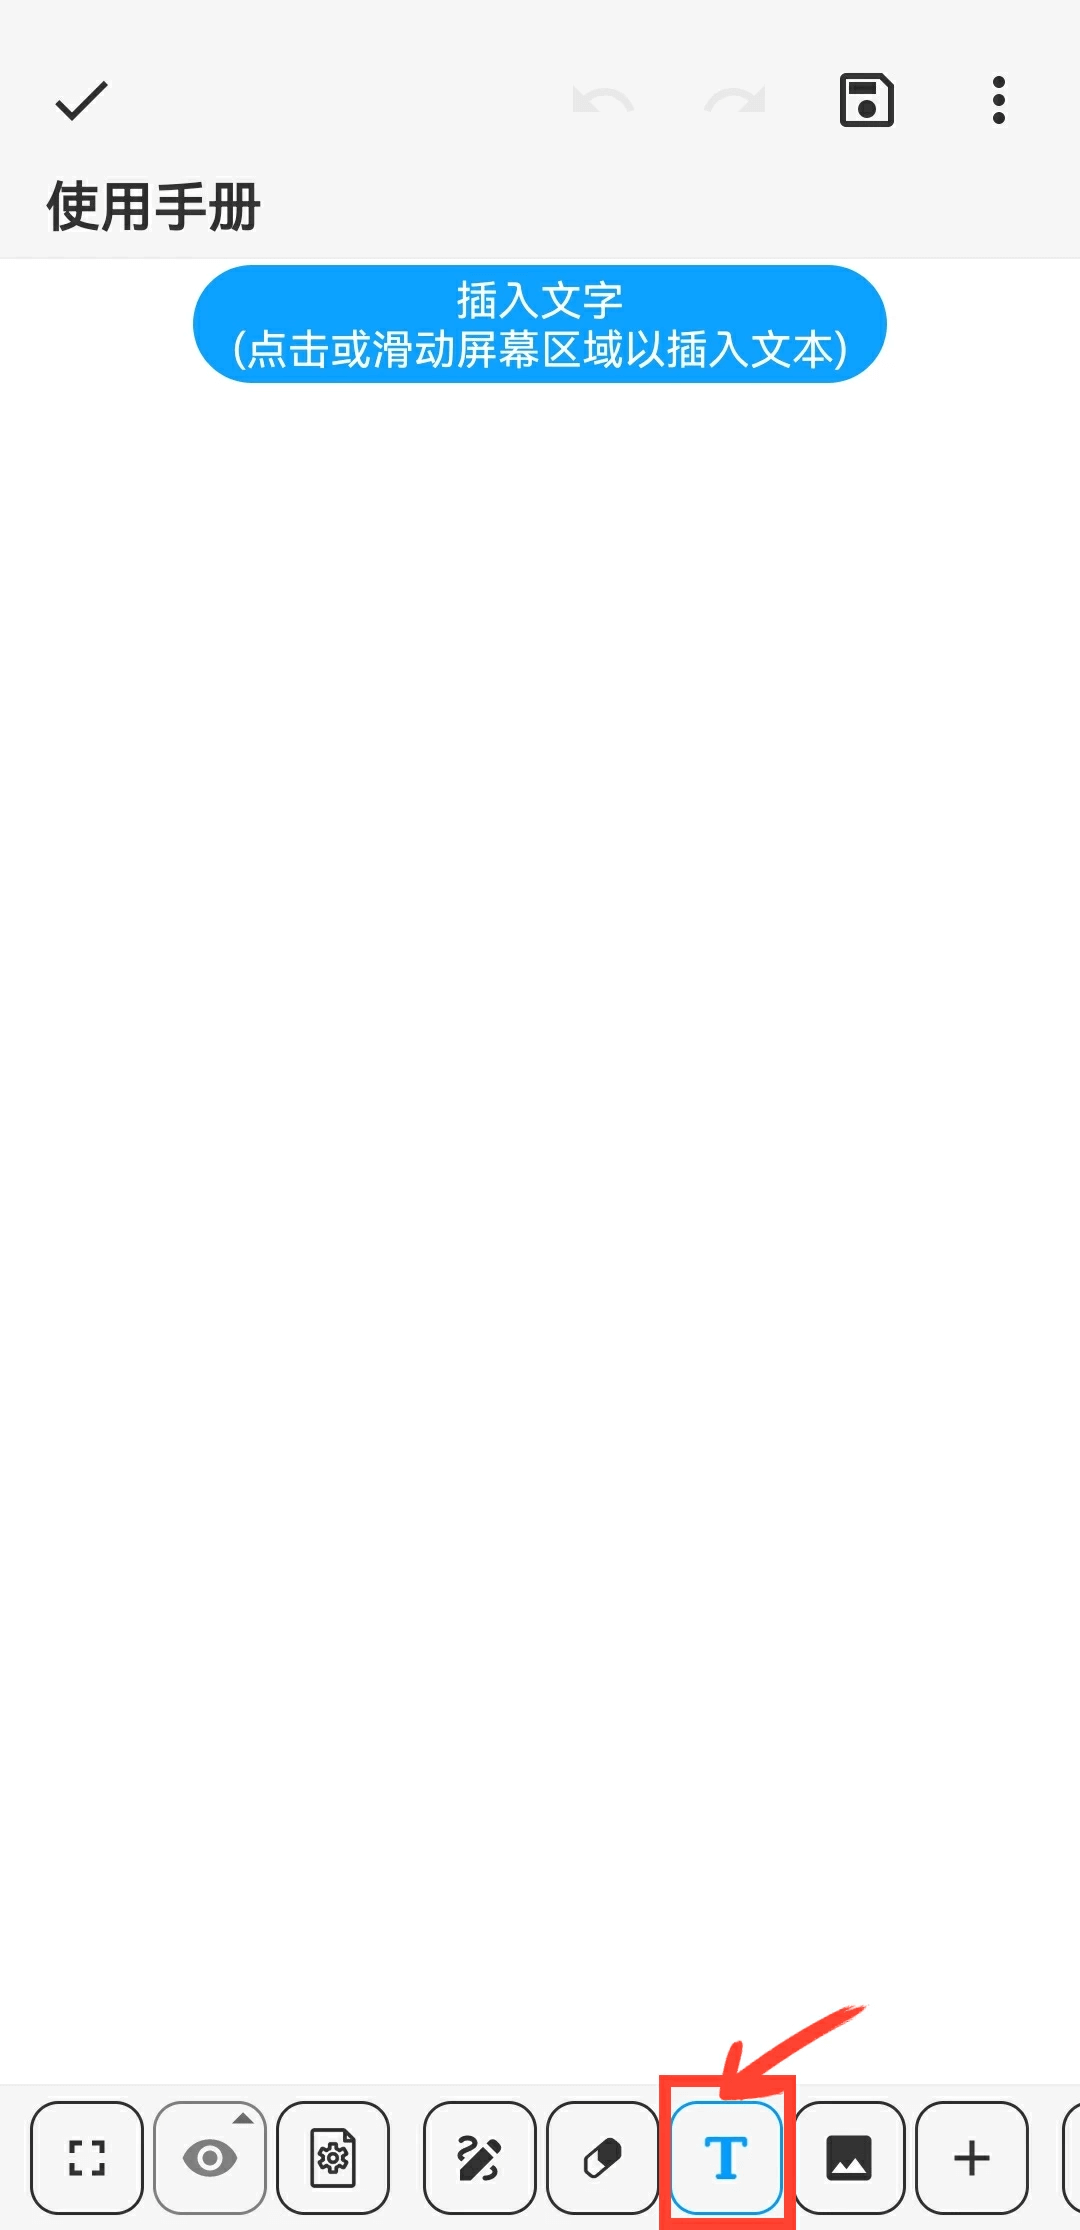
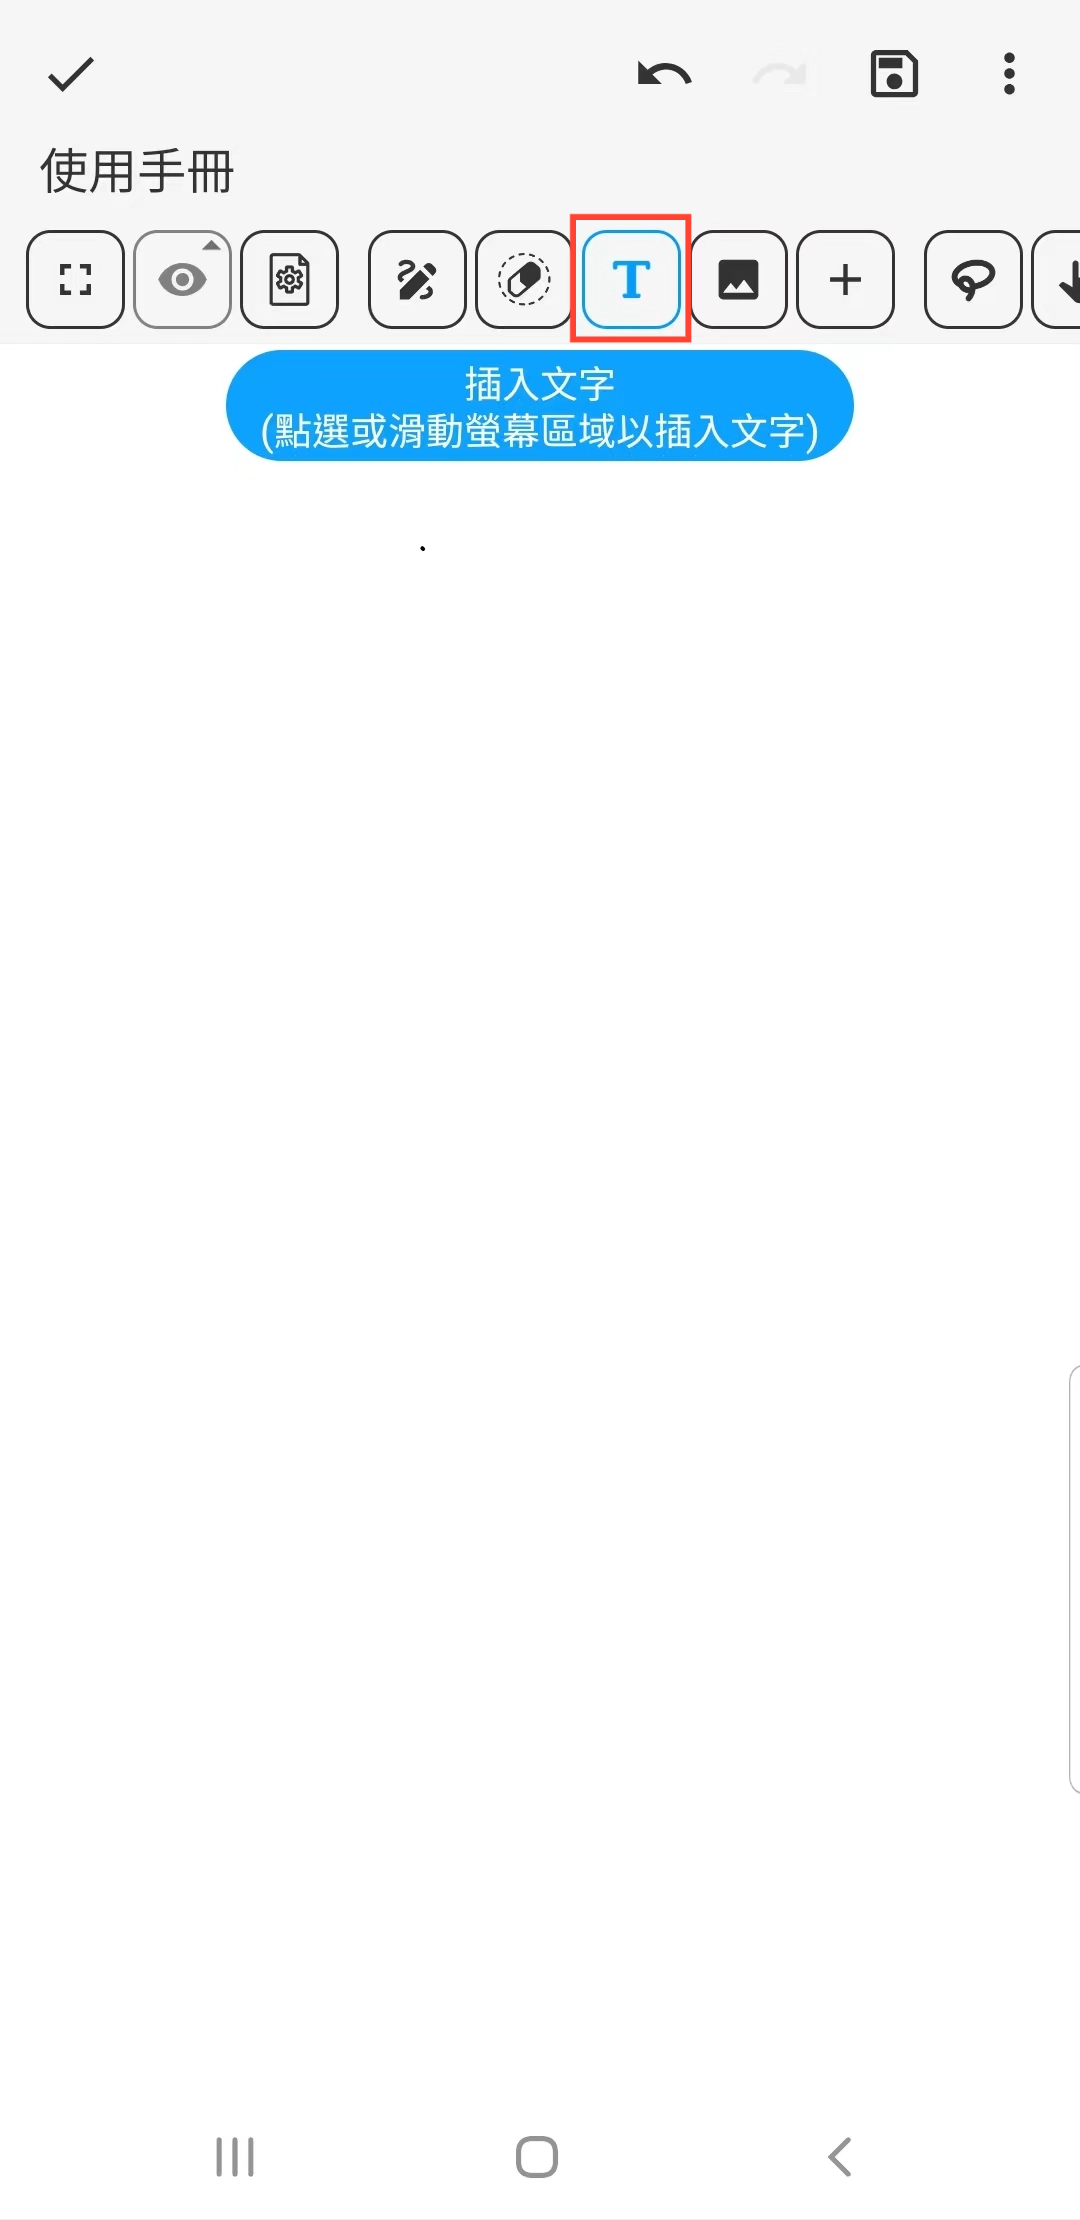
more3

diff --git a/drawnote/manual/zh-tw/super_note/move_pencil_toolbar.md b/drawnote/manual/zh-tw/super_note/move_pencil_toolbar.md
@@ -13,9 +13,9 @@
 
 3.勾選確認。
 
-![](imgs/move_pencil_toolbar.png)
+![](imgs/move_pencil_toolbar1.png)
 
 #### 提示
 - 按住筆盒工具列上的圓形按鈕，即可拖動筆盒工具列並調整其位置。
 
-![](imgs/move_pencil_toolbar2.png)
+![](imgs/move_pencil_toolbar3.png)

diff --git a/drawnote/manual/zh-tw/super_note/insert_web_link.md b/drawnote/manual/zh-tw/super_note/insert_web_link.md
@@ -14,7 +14,7 @@
 
 5.確認操作後即可插入連結。
 
-![](imgs/insert_web_link.png)
+![](imgs/insert_web_link1.png)
 
 #### 提示
 - 為連結取一個描述性名稱，方便後續查找和定位。

diff --git a/drawnote/manual/zh-tw/super_note/insert_text.md b/drawnote/manual/zh-tw/super_note/insert_text.md
@@ -18,4 +18,4 @@
 
 - 在文本編輯框中，選中文字後，可設置格式，包括顏色、大小、加粗、下劃線等。
 
-![](imgs/insert_text2.png)
+![](imgs/insert_text3.png)

diff --git a/drawnote/manual/zh-tw/super_note/move_toolbar.md b/drawnote/manual/zh-tw/super_note/move_toolbar.md
@@ -8,4 +8,4 @@
 
 2.選擇工具列位置：“將工具列移至底部”或“將工具列移至底部”。
 
-![](imgs/move_toolbar.png)
+![](imgs/move_toolbar1.png)
